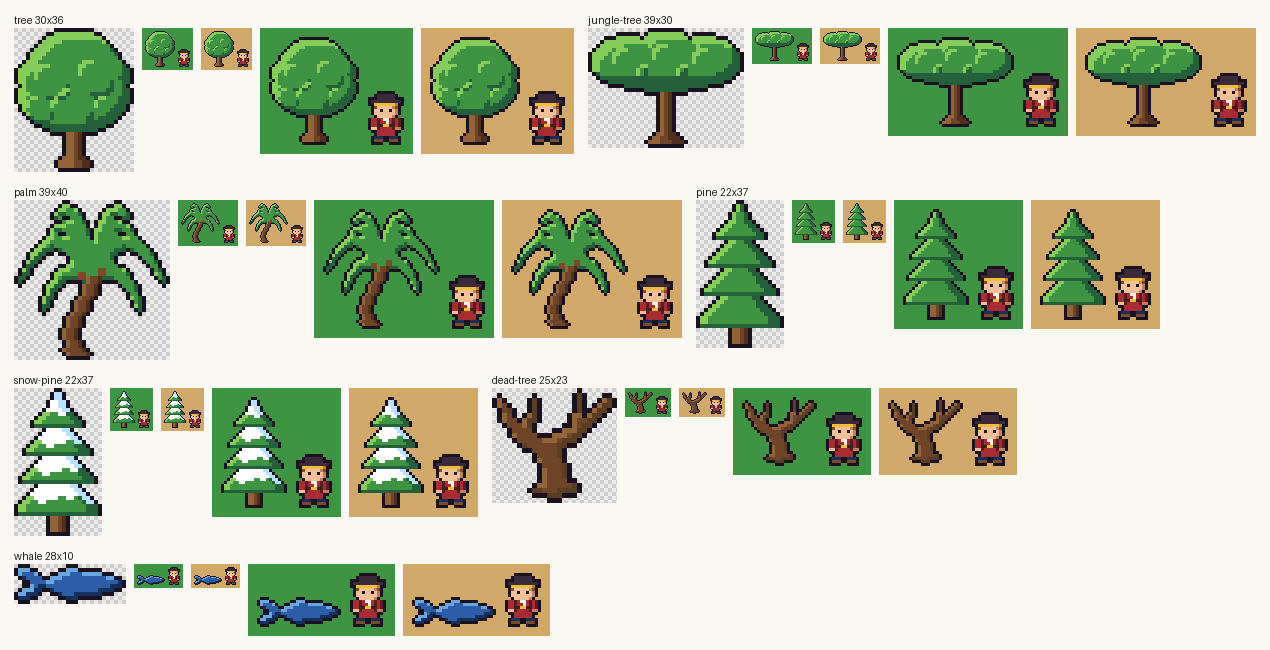
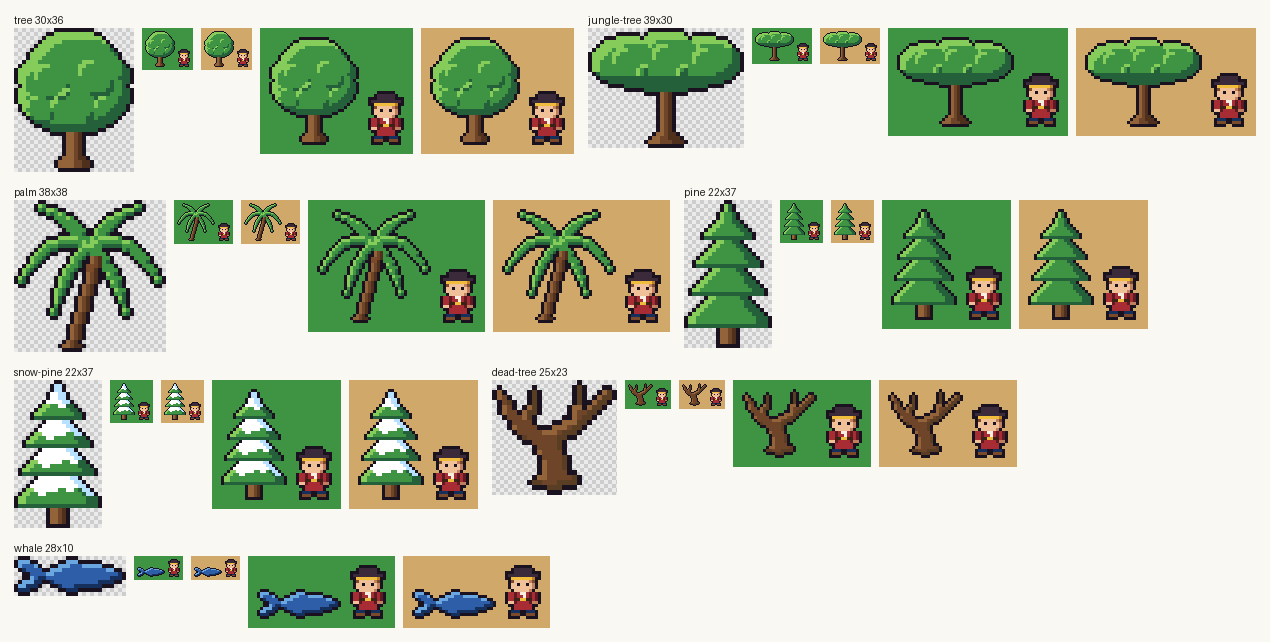
Approve full-resolution fort pieces
Claude-Session: https://claude.ai/code/session_017hBigdyyagtCxF8RX9TYQB

diff --git a/src/art/redraw.ts b/src/art/redraw.ts
@@ -24,6 +24,13 @@ const ROWS: Record<string, string[]> = {
   'fire-2': ['....Q.', '.q.Qq.', '.qQQq.', 'qQYQq.', '.QYYQq', 'qqQQqq'],
   'flag-1': ['wRRRRRR.', 'wRRRRRRR', 'wRRRR...', 'w.......'],
   'flag-2': ['wRRRR...', 'wRRRRRR.', 'wRRRRRRR', 'w.......'],
+  'fort-crates': ['...kkkkkkkkk....', '...kFFFFFFFk....', '...kVVVVVVVk....', '...kVWWWWWwk....', 'kkkkVWWWWWwkkkk.', 'kFFkvwwwwwwkFFk.', 'kVVkVWWWWWwkVVk.', 'kkkkkkkkkkkkkkk.', 'kVWWWWwkVWWWWwk.', 'kVWWWWwkVWWWWwk.', 'kwwwwwwkwwwwwwk.', 'kVWWWWwkVWWWWwk.', 'kVWWWWwkVWWWWwk.', 'kkkkkkkkkkkkkkk.'],
+  'fort-flagpole': ['.kk.........', 'kVvkkkkkkkkk', 'kVvkBBBBBBBk', 'kVvkBBBBBBBk', 'kVvkBBBBBBBk', 'kVvkBBBBBBBk', 'kVvkBBBBBBBk', 'kVvkBBBBBBBk', 'kVvkBBBBBBBk', 'kVvkkkkkkkkk', 'kVvk........', 'kVvk........', 'kVvk........', 'kVvk........', 'kVvk........', 'kVvk........', 'kVvk........', 'kVvk........', 'kVvk........', 'kVvk........', 'kVvk........', 'kVvk........', 'kkkk........'],
+  'fort-gate': ['kkkkkkkk..kkkkkkkk..kkkkkkkk', 'kuuuuuuk..kuuuuuuk..kuuuuuuk', 'kuTTTTtk..kuTTTTtk..kuTTTTtk', 'kuTTTTtk..kuTTTTtk..kuTTTTtk', 'kuTTTTtk..kuTTTTtk..kuTTTTtk', 'kkkkkkkkkkkkkkkkkkkkkkkkkkkk', 'kuuTuuuuuuuTuuuuuuuTuuuuuutk', 'kTTtTTTTTTTtTTTTTTTtTTTTTTtk', 'kTTtTTTTTTkkkkkkkkTtTTTTTTtk', 'kttttttttkvWWkkwwvkttttttttk', 'kuuuuuuukvWWwkkwwwvkuuuTuutk', 'kTTTTTTkvWWwwkkwwwwvkTTtTTtk', 'kTTTTTTkvWWwwkkwwwwvkTTtTTtk', 'kttttttkvWWwwkkwwwwvkttttttk', 'kuuTuuukMMMMMkkMMMMMkuuuuutk', 'kTTtTTTkvWWwwkkwwwwvkTTTTTtk', 'kTTtTTTkvWWwwkkwwwwvkTTTTTtk', 'kttttttkvWWwwkkwwwwvkttttttk', 'kuuuuuukvWWwwkkwwwwvkuuTuutk', 'kTTTTTTkMMMMMkkMMMMMkTTtTTtk', 'kTTTTTTkvWWwwkkwwwwvkTTtTTtk', 'kttttttkvWWwwkkwwwwvkttttttk', 'kkkkkkkkkkkkkkkkkkkkkkkkkkkk'],
+  'fort-tower': ['kkkkkkkk..kkkkkkkk..kkkkkkkk', 'kuuuuuuk..kuuuuuuk..kuuuuuuk', 'kuTTTTtk..kuTTTTtk..kuTTTTtk', 'kuTTTTtkKKkuTTTTtkKKkuTTTTtk', 'kuTTTTtkKKkuTTTTtkKKkuTTTTtk', 'kkkkkkkkkkkkkkkkkkkkkkkkkkkk', 'kuuuuuuTuuuuuuuTuuuuuuuTuutk', 'kTTTTTTtTTTTTTTtTTTTTTTtTTtk', 'kTTTTTTtTTTTTTTtTTTTTTTtTTtk', 'kTTTTTTtTTTTTTTtTTTTTTTtTTtk', 'kttttttttttttttttttttttttttk', 'kuuTuuuuuuuTuuuuuuuTuuuuuutk', 'kTTtTTTTTTTtTTTTTTTtTTTTTTtk', 'kTTtTTTTTTTtTTTTTTTtTTTTTTtk', 'kttttttttttttttttttttttttttk', 'kuuuuuuTuuuuukkTuuuuuuuTuutk', 'kTTTTTTtTTTTTKktTTTTTTTtTTtk', 'kTTTTTTtTTTTTKktTTTTTTTtTTtk', 'kttttttttttttKkttttttttttttk', 'kuuTuuuuuuuTuKkuuuuTuuuuuutk', 'kTTtTTTTTTTtTKkTTTTtTTTTTTtk', 'kTTtTTTTTTTtTKkTTTTtTTTTTTtk', 'kttttttttttttkkttttttttttttk', 'kuuuuuuTuuuuukkTuuuuuuuTuutk', 'kTTTTTTtTTTTTTTtTTTTTTTtTTtk', 'kTTTTTTtTTTTTTTtTTTTTTTtTTtk', 'kttttttttttttttttttttttttttk', 'kuuTuuuuuuuTuuuuuuuTuuuuuutk', 'kTTtTTTTTTTtTTTTTTTtTTTTTTtk', 'kTTtTTTTTTTtTTTTTTTtTTTTTTtk', 'kttttttttttttttttttttttttttk', 'kuuuuuuTuuuuuuuTuuuuuuuTuutk', 'kTTTTTTtTTTTTTTtTTTTTTTtTTtk', 'kTTTTTTtTTTTTTTtTTTTTTTtTTtk', 'kttttttttttttttttttttttttttk', 'kkkkkkkkkkkkkkkkkkkkkkkkkkkk'],
+  'fort-wall-back': ['kkkkkk..', 'kuuuuk..', 'kuTTtk..', 'kuTTtk..', 'kuTTtk..', 'kkkkkkkk', 'uuuuuuuu', 'TTTTTTTt', 'TTTTTTTt', 'tttttttt', 'uuuuuuuu', 'TTTtTTTT', 'TTTtTTTT', 'kkkkkkkk'],
+  'fort-wall-front': ['kkkkkk..', 'kuuuuk..', 'kuTTtk..', 'kuTTtk..', 'kuTTtk..', 'kkkkkkkk', 'uuuTuuuu', 'TTTtTTTT', 'TTTtTTTT', 'TTTtTTTT', 'tttttttt', 'uuuuuuuu', 'TTTTTTTt', 'TTTTTTTt', 'tttttttt', 'uuuTuuuu', 'TTTtTTTT', 'TTTtTTTT', 'tttttttt', 'uuuuuuuu', 'TTTTTTTt', 'TTTTTTTt', 'tttttttt', 'kkkkkkkk'],
+  'fort-wall-side': ['kuuTTtTTTttk', 'kuuTTtTTTttk', 'kuuTTtTTTttk', 'kuuttttttttk', 'kuuTTTTTTttk', 'kuuTTTTTTttk', 'kuuTTTTTTttk', 'kuuttttttttk'],
   'galley': ['kkkkkkkkkk', 'kNNNMMMMmk', 'kNMMNNMMmk', 'kNMNKKmMmk', 'kMMNKKmMmk', 'kMMMNmMMmk', 'kMmqQQqmMk', 'kMmqqqqmMk', 'kmmmmmmmmk', 'kkkkkkkkkk'],
   'glint-1': ['P'],
   'glint-2': ['PPP'],

diff --git a/art/work/_batches/ship-parts/review-3.md b/art/work/_batches/ship-parts/review-3.md
@@ -1,0 +1,14 @@
+# Review round 3: ship-parts
+
+Only `figurehead` is reviewed; the other twelve families passed earlier and stay passed. Size still matches spec (10x16), outline (1 px k), top-left light and gold ramp (k/o/O/y only, 3 tones) match the rest of the batch and approved.png.
+
+## figurehead: FAIL
+Earlier issues:
+- Round 2 #1 (no head shape): the rows I prescribed were applied exactly (row 3 `..kyyOOk..` through row 9 `.kyyOOOok.`), so the head is now a 8 px bulge, but the direction itself was wrong, see new issue 1. Treat as applied, not solved.
+- Round 2 #2 (dark head, banded tones): mostly fixed; head base is `O` and only row 7 is a full `o` band. A new side effect is listed in issue 2.
+- Round 2 #3 (seam at (4,2)): fixed, (4,2) is `O`.
+- Round 1 #1 (front-on bust / pawn) and #2 (solid `o` bottom row): bust is gone and row 14 is `koOOOOoook`.
+
+1. [MAJOR] figurehead (0-9,3-10): the silhouette widths run 4/6/8/8/8/8/6/8/10 (outline widths rows 3-10: 6,8,8,8,8,6,8,10). The bulge in rows 4-7, the 2 px waist at row 8, then the wider shoulders at row 10 make an hourglass. At 1x on the sheet it reads as a gold gourd, chess pawn or bottle, not a carved prow figure. Filled black, nobody would name a figurehead. The head-over-waist-over-shoulders structure is the problem, not the pixels. Fix: remove the waist so the outline widens monotonically (a leaf/spearhead prow), and show the head only by tone inside it. Use exactly: row 3 `..kyyOOk..`, row 4 `.kyyOOOok.`, row 5 `.kyyOOOok.`, row 6 `.kyOOOOok.`, row 7 `kyyOOOOook`, row 8 `kyOOooOook` (hair/brow `oo` at (4,8),(5,8)... see next), row 9 `kyOOOOOook`; keep rows 0-2 and 10-15 unchanged. Cols 1-8 at rows 4-6 are then the 6 px head, row 7-9 the shoulders, with no step narrower than the row above.
+2. [MAJOR] figurehead (2-7,7-8): rows 7 `.kooooook.` and 8 `..kooook..` are two consecutive near-solid `o` rows 6 px wide, a dark belt across the middle of the sprite. It is the darkest mass on the sprite, sits where the highlight should be on the upper body, and splits the head from the shoulders as a hard band (banding). Fix: removed by the row set in issue 1 (rows 7-9 contain no more than 2 `o` pixels in the interior); `o` stays only on the right edge column and the `oo` at (4,8),(5,8) as the chin/collar shadow.
+3. [MINOR] figurehead (0-9,10-14): arms/shoulders are one undivided gold block, so nothing says "figure". Optional: one `o` pixel pair at (3,12),(6,12)... skipped if it adds noise; the head tones from issue 1 are enough.

diff --git a/art/APPROVED.md b/art/APPROVED.md
@@ -54,3 +54,4 @@ Families the critic has passed. Match their style.
 - wine (icons) — round 1
 - porcelain (icons) — round 1
 - amber (icons) — round 1
+- fort (buildings) — round 2
